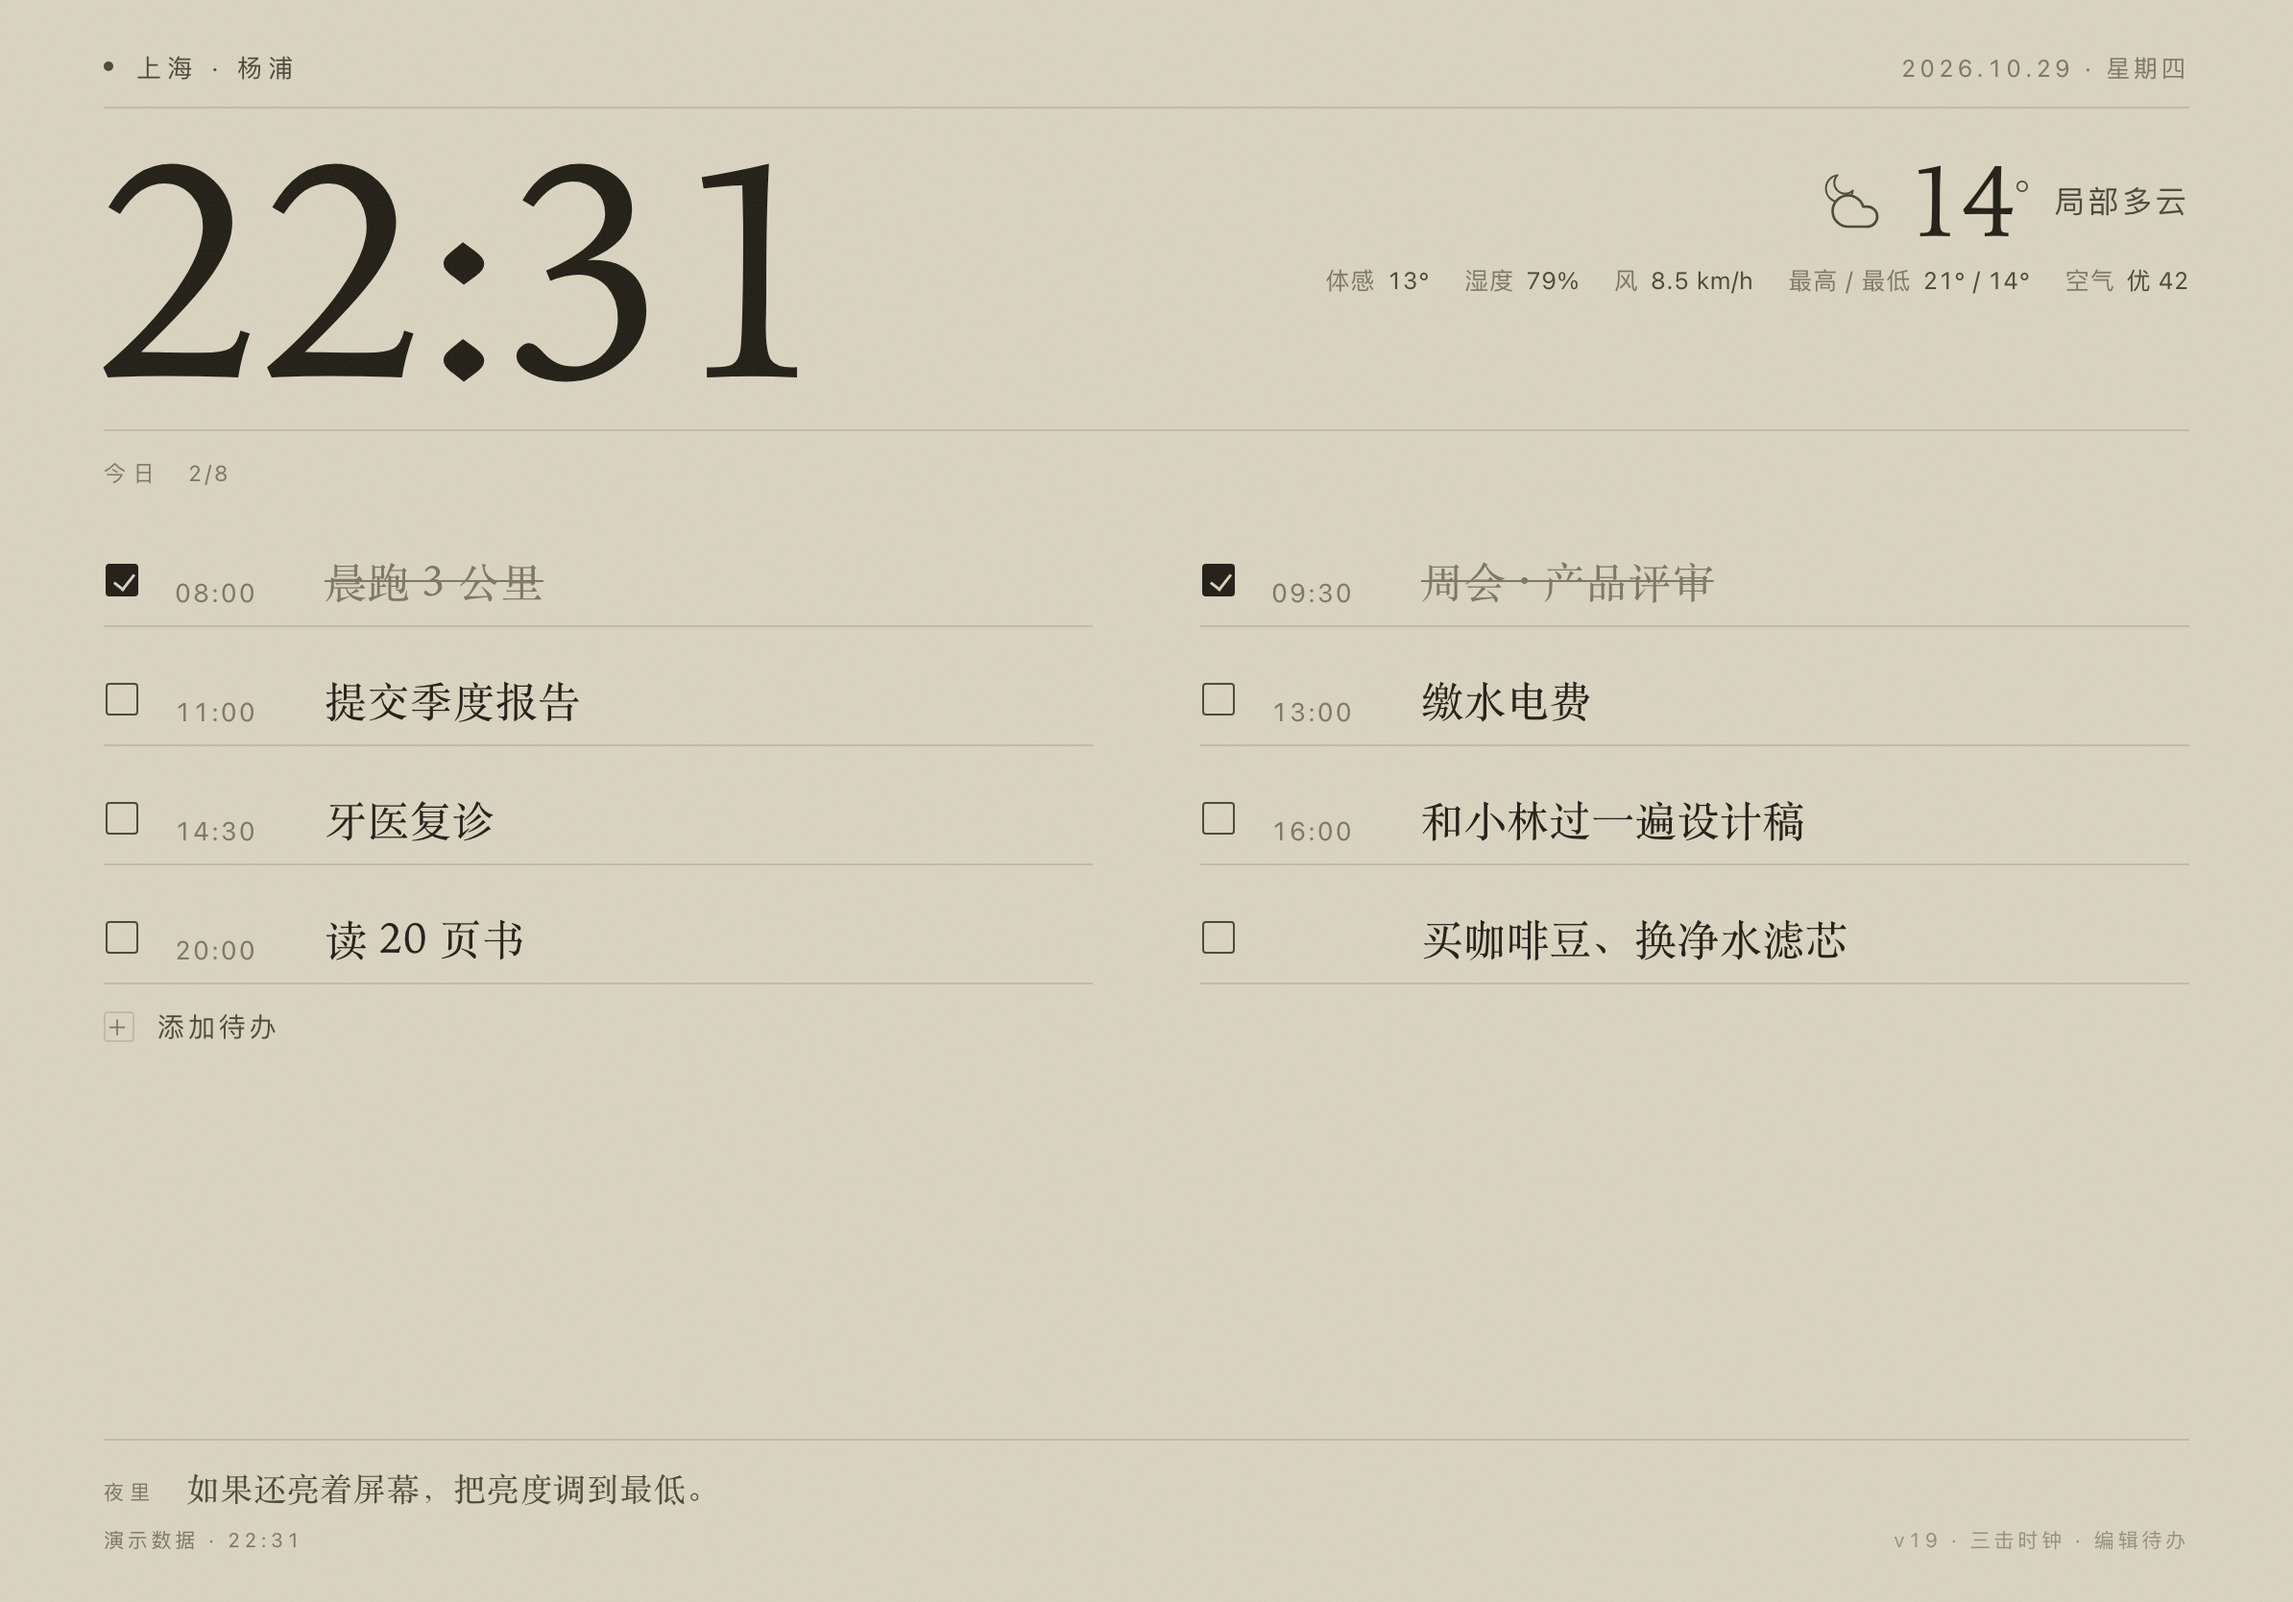
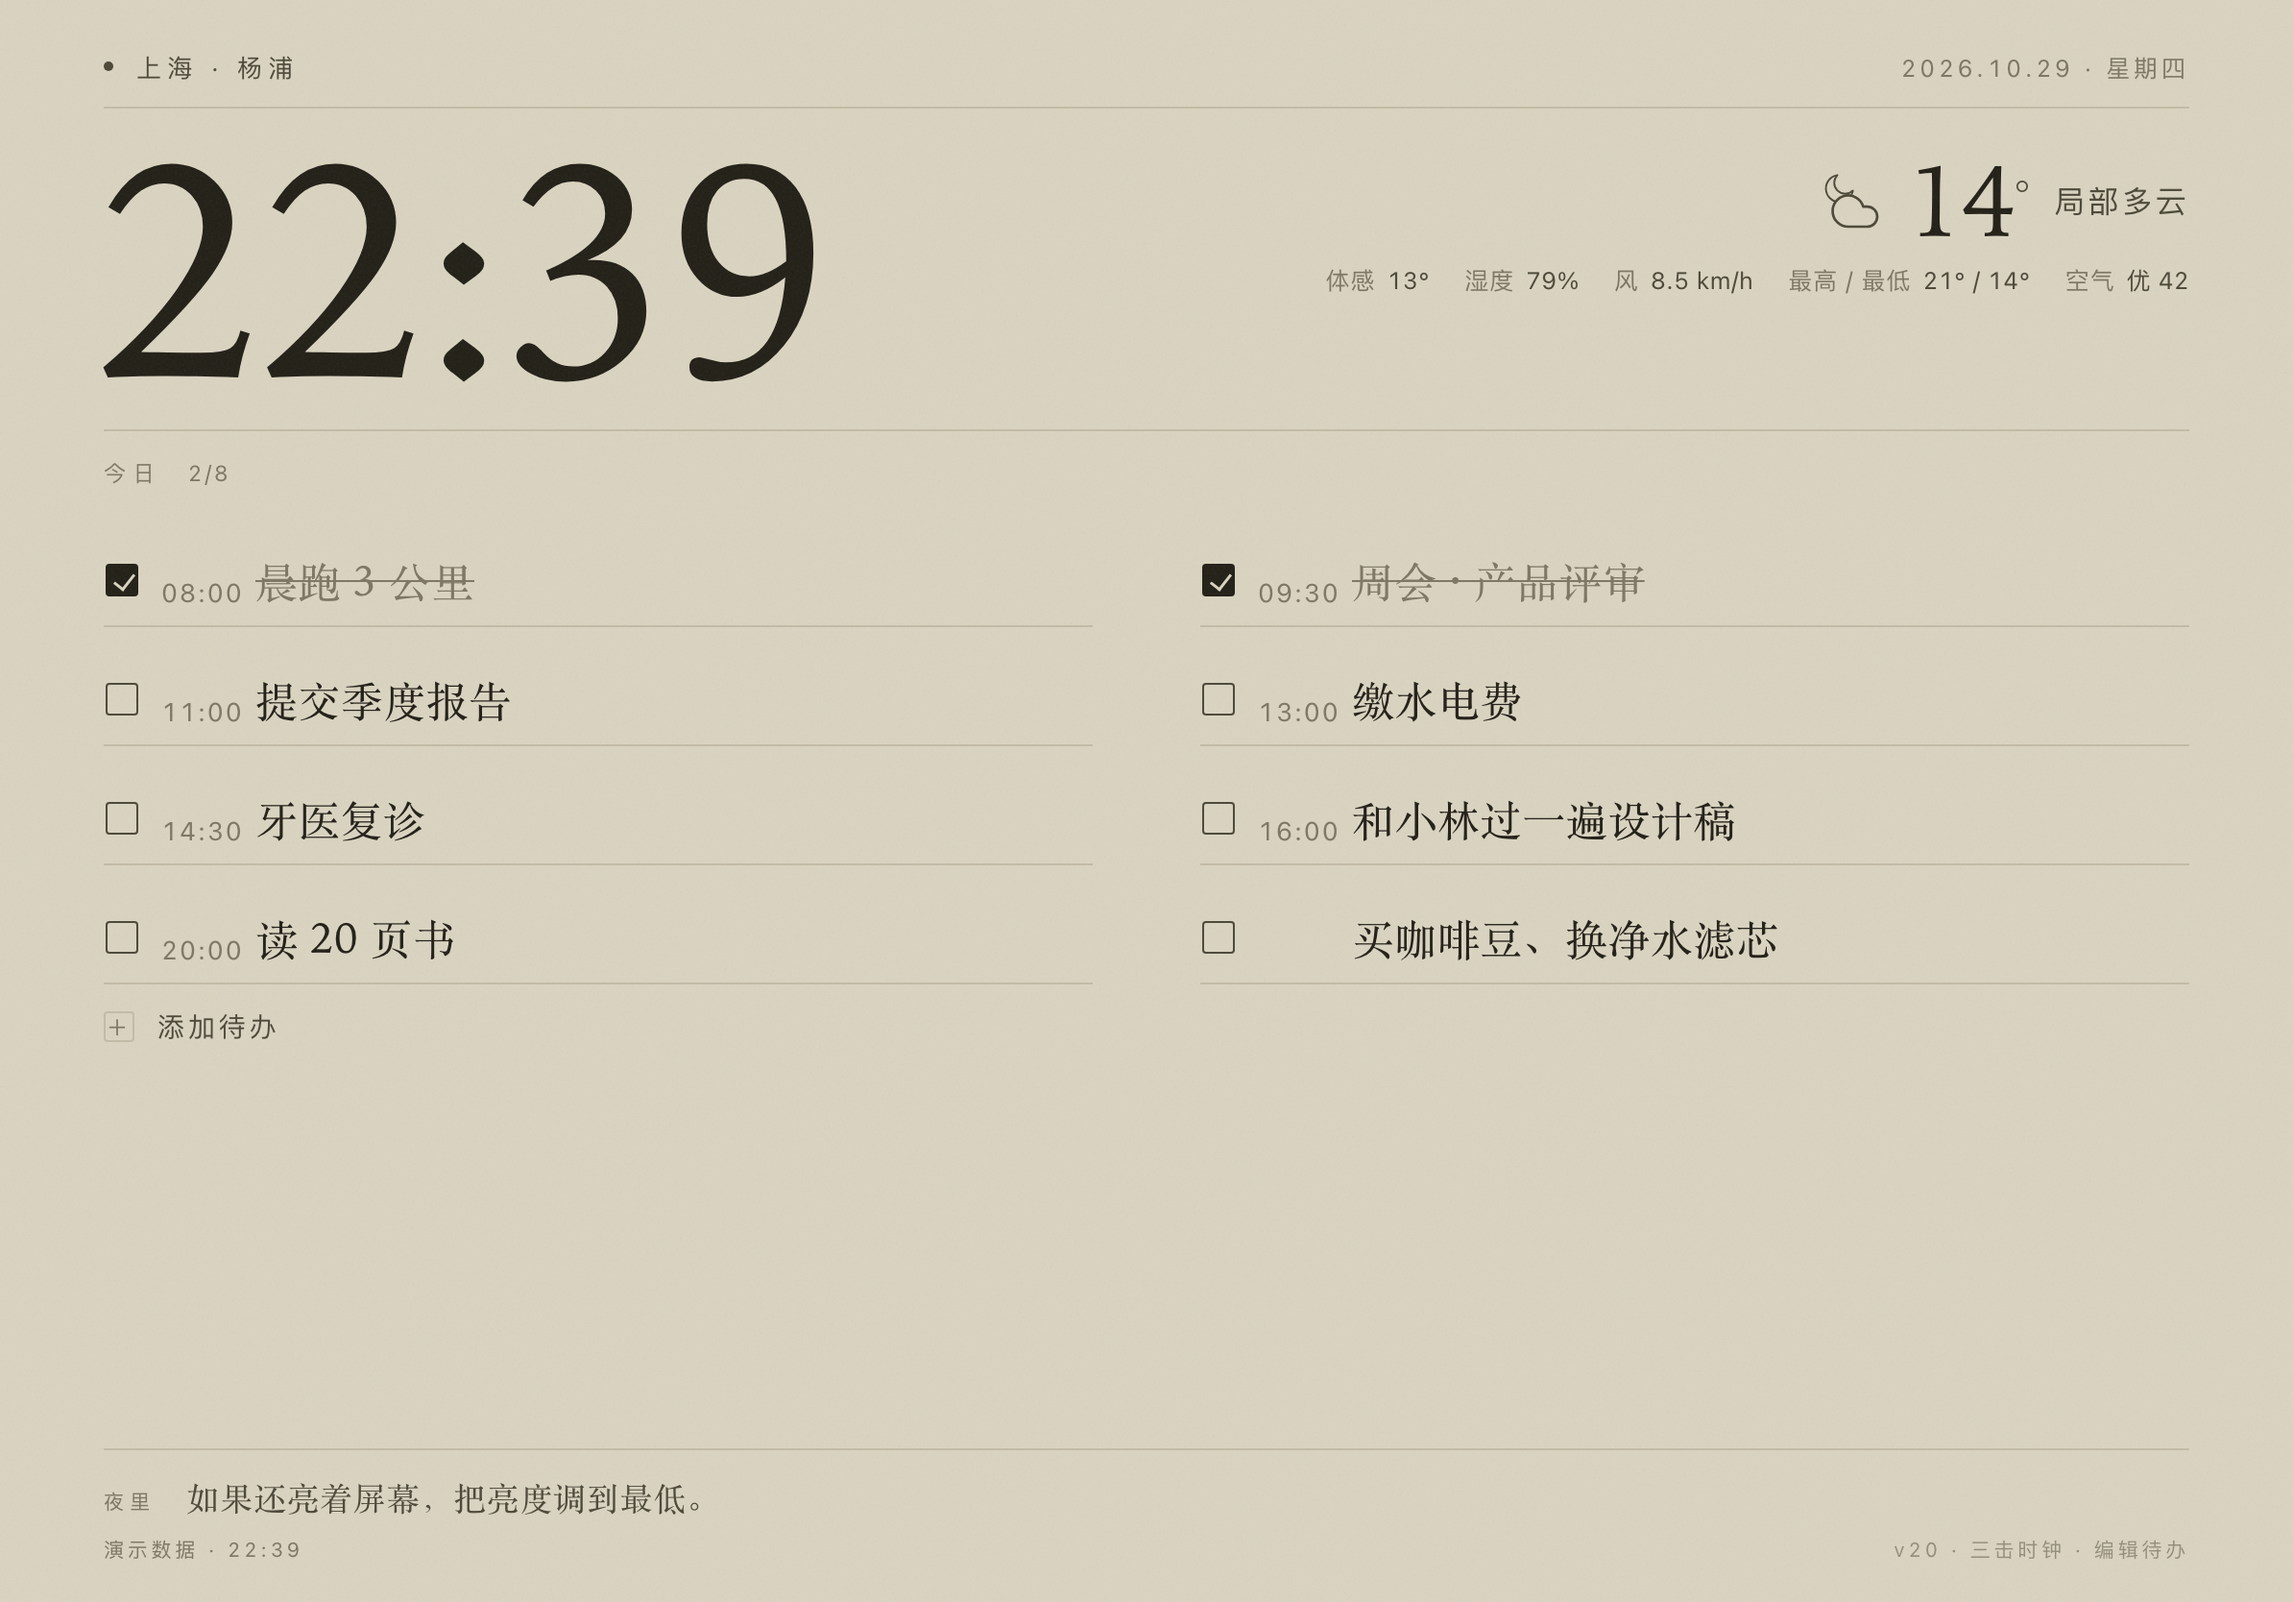
下边距 20px、去掉自动翻页、勾选框与文字间距收紧（v20）

diff --git a/index.html b/index.html
@@ -56,7 +56,7 @@
     position:relative;z-index:1;
     height:100%;
     display:flex;flex-direction:column;
-    padding:26px var(--pad-x) calc(25px + env(safe-area-inset-bottom, 0px));
+    padding:26px var(--pad-x) calc(20px + env(safe-area-inset-bottom, 0px));
     transition:transform 1s ease;
   }
 
@@ -136,8 +136,8 @@
     min-height:0;flex:0 1 auto;
   }
   .todo{
-    display:grid;grid-template-columns:20px 62px minmax(0,1fr);
-    align-items:end;gap:16px;
+    display:grid;grid-template-columns:20px 40px minmax(0,1fr);
+    align-items:end;gap:9px;
     padding:0 0 9px 1px;border-bottom:1px solid var(--rule);
     cursor:default;
   }
@@ -544,8 +544,7 @@
       seedFromJson: true,   // 第一次运行时用 todos.json 播一次种，之后完全本地
       dailyArchive: true,   // 每天跨天时把「当天完整清单」存进历史（含没做完的）
       url: "todos.json",    // 也可以点「从 todos.json 导入」手动覆盖
-      maxShow: 12,          // 每页条数
-      autoPageSeconds: 15   // 多于 1 页时自动翻页的间隔，0 = 不自动
+      maxShow: 12           // 每页条数
     },
 
     // 健康提示：daily 每天换一条 / rotate 按固定间隔轮换
@@ -699,7 +698,7 @@
     ]
   };
 
-  const BUILD = "v19";   // 改版时 +1，页脚可见，用来确认主屏 App 拿到的是哪一版
+  const BUILD = "v20";   // 改版时 +1，页脚可见，用来确认主屏 App 拿到的是哪一版
 
   const params = new URLSearchParams(location.search);
   const DEMO_MODE = params.has("demo");
@@ -1807,11 +1806,6 @@
 
     setInterval(() => { renderClock(false); renderStatus(); }, 1000);
 
-    if (CONFIG.todos.autoPageSeconds > 0) {
-      setInterval(() => {
-        if (state.todoPages > 1) nextPage();
-      }, CONFIG.todos.autoPageSeconds * 1000);
-    }
     setInterval(loadWeather, Math.max(3, CONFIG.weather.refreshMinutes) * 60000);
     setInterval(loadAqi, Math.max(10, CONFIG.weather.refreshMinutes * 4) * 60000);
     setInterval(loadIndoor, Math.max(2, CONFIG.indoor.refreshMinutes) * 60000);

diff --git a/README.md b/README.md
@@ -121,9 +121,7 @@ location: { name: "上海 · 徐汇", lat: 31.1884, lon: 121.4336, tz: "Asia/Sha
 - **勾**：点方框。板上也能直接勾，不用进面板。
 - **改**：面板里直接点那行字就能改；要改时间就点时间。
 - **删**：点行尾的 ×。
-- **排序**：有时间的按时间先后排在前面，没时间的排后面。板上分两列显示，**左右交替**（1、2 / 3、4 / 5、6……），一页 12 条。**超过 12 条自动分页**：每 15 秒翻一页，右上角显示「1 / 2」，点它也能手动翻。
-
-翻页间隔由 `CONFIG.todos.autoPageSeconds` 控制（改成 `0` 就不自动翻）。
+- **排序**：有时间的按时间先后排在前面，没时间的排后面。板上分两列显示，**左右交替**（1、2 / 3、4 / 5、6……），一页 12 条。**超过 12 条分页**：右上角显示「1 / 2」，点一下翻到下一页（循环）。只有一页时这个标记不显示。
 
 数据写在**这台 iPad 的 Safari 本地存储**（`localStorage`）里，断网、锁屏、关掉再打开都还在，不经过任何服务器。
 
